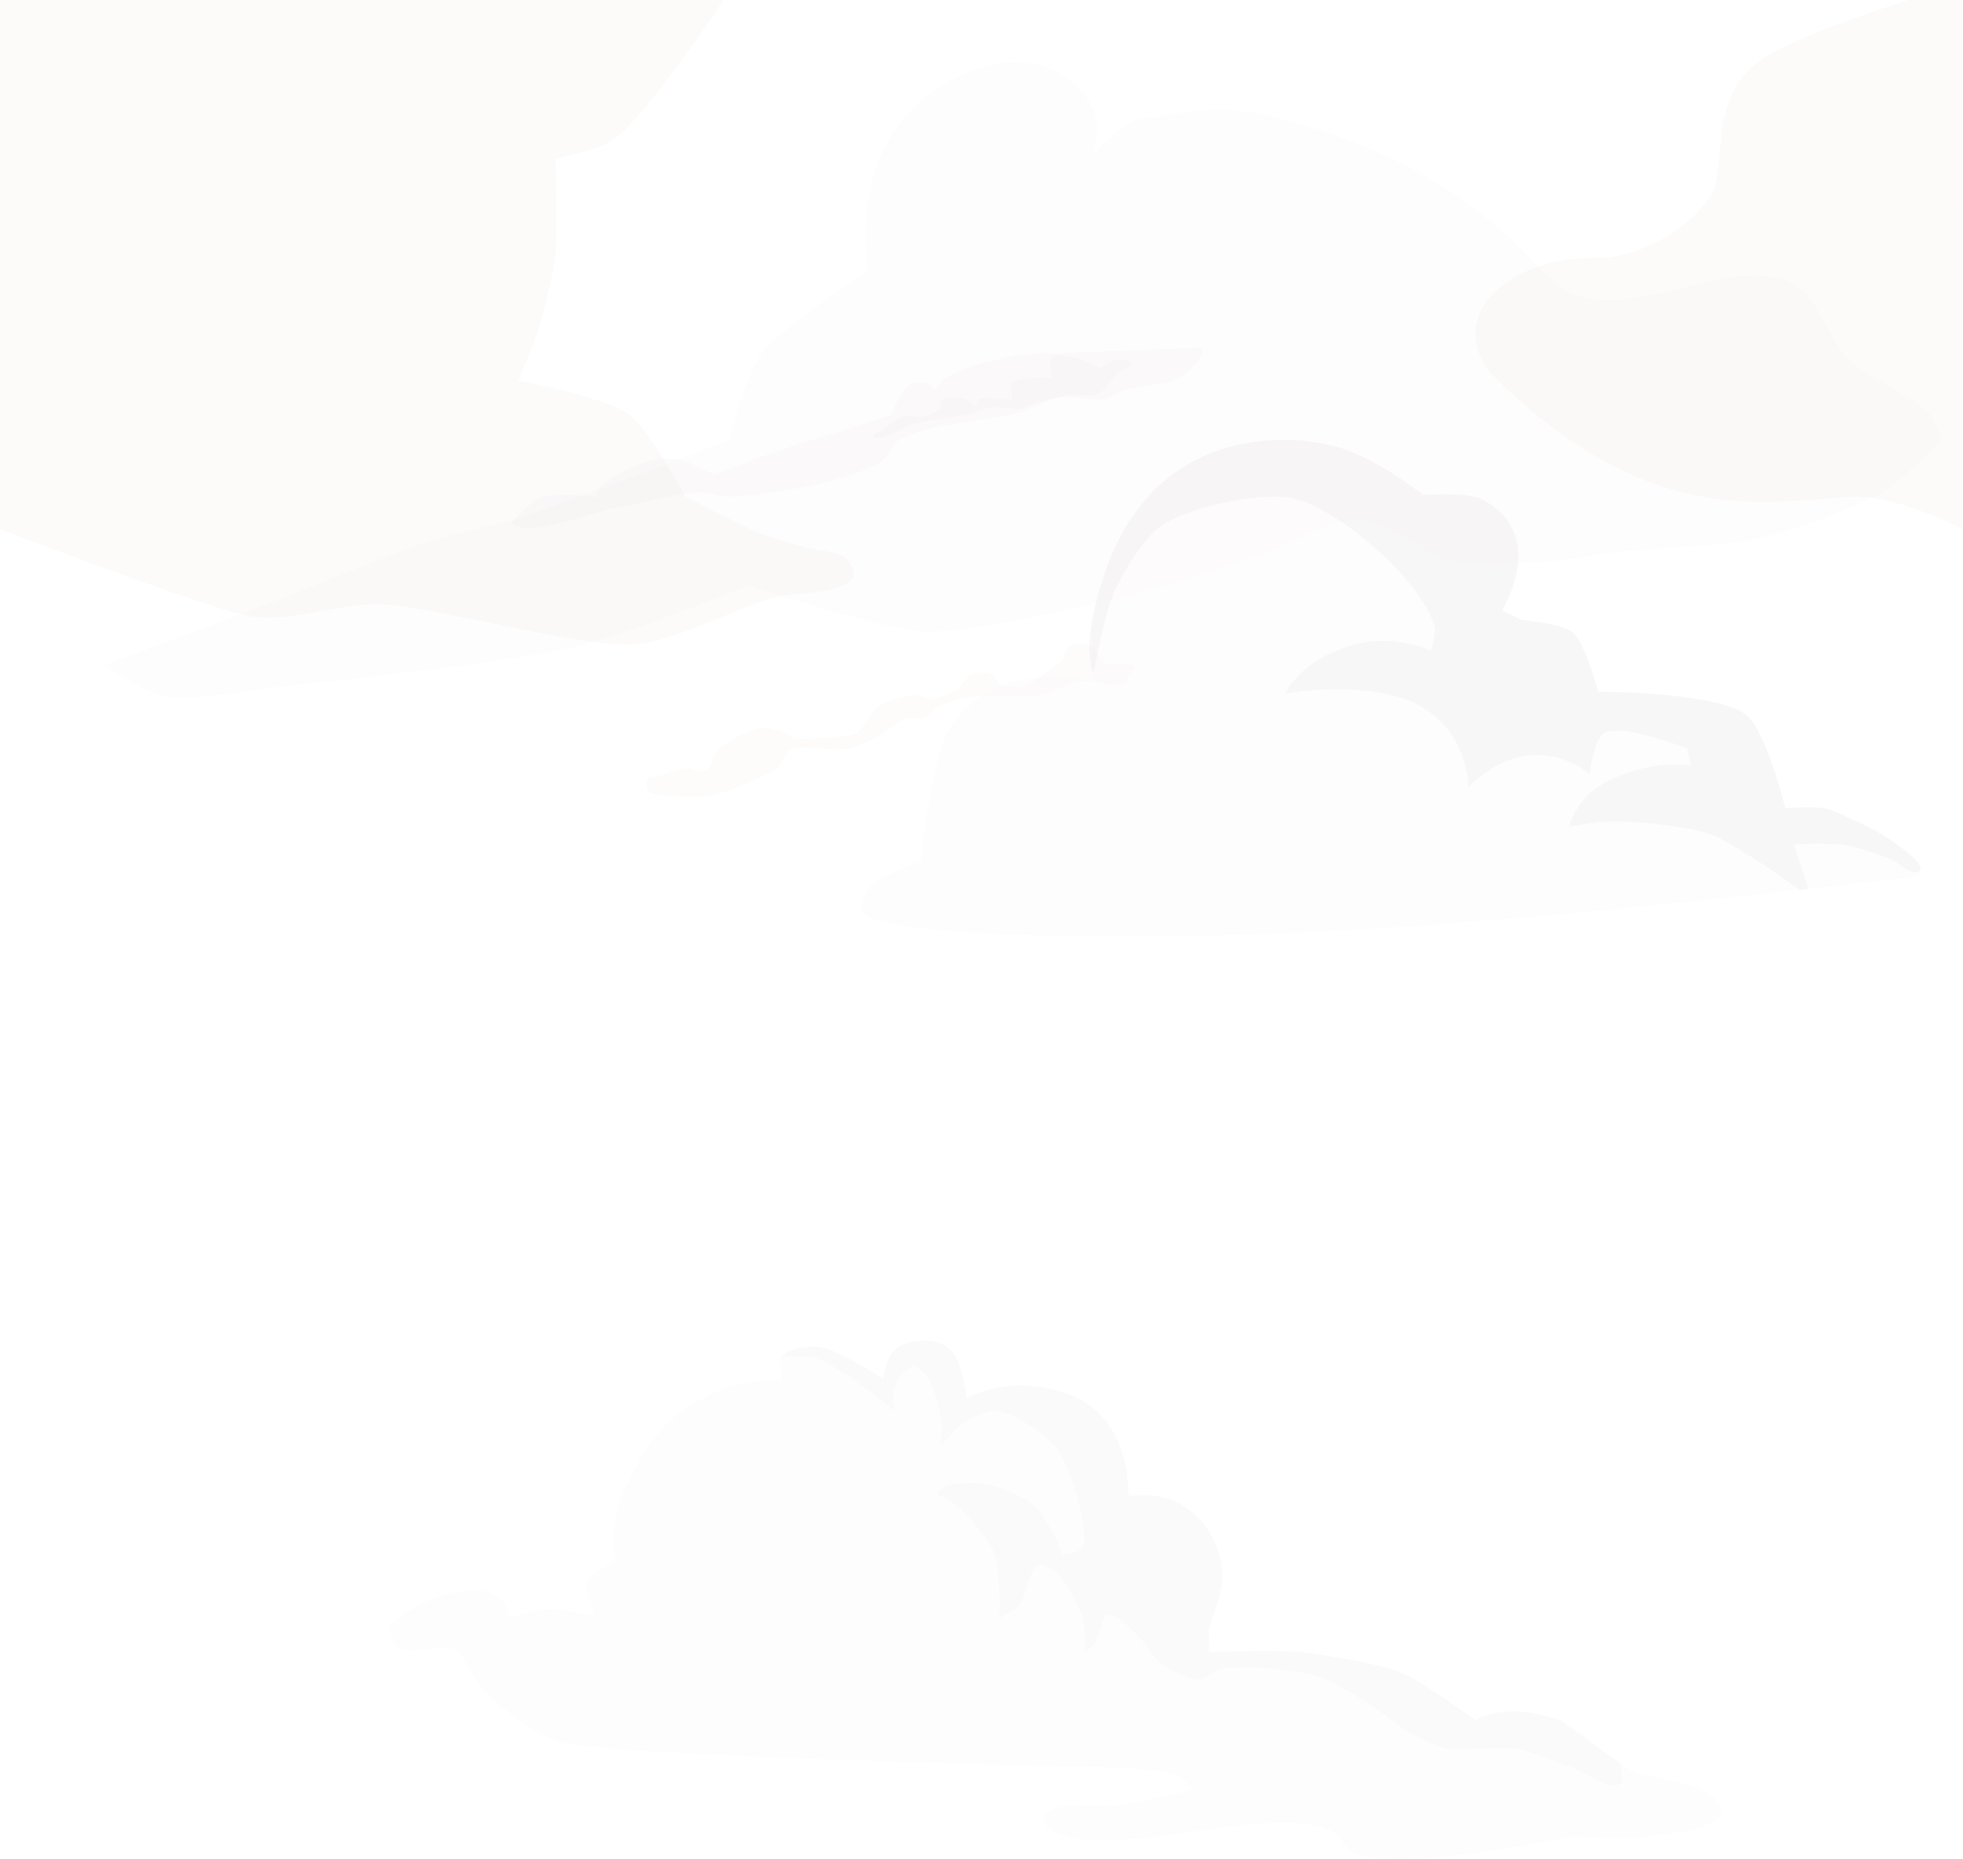
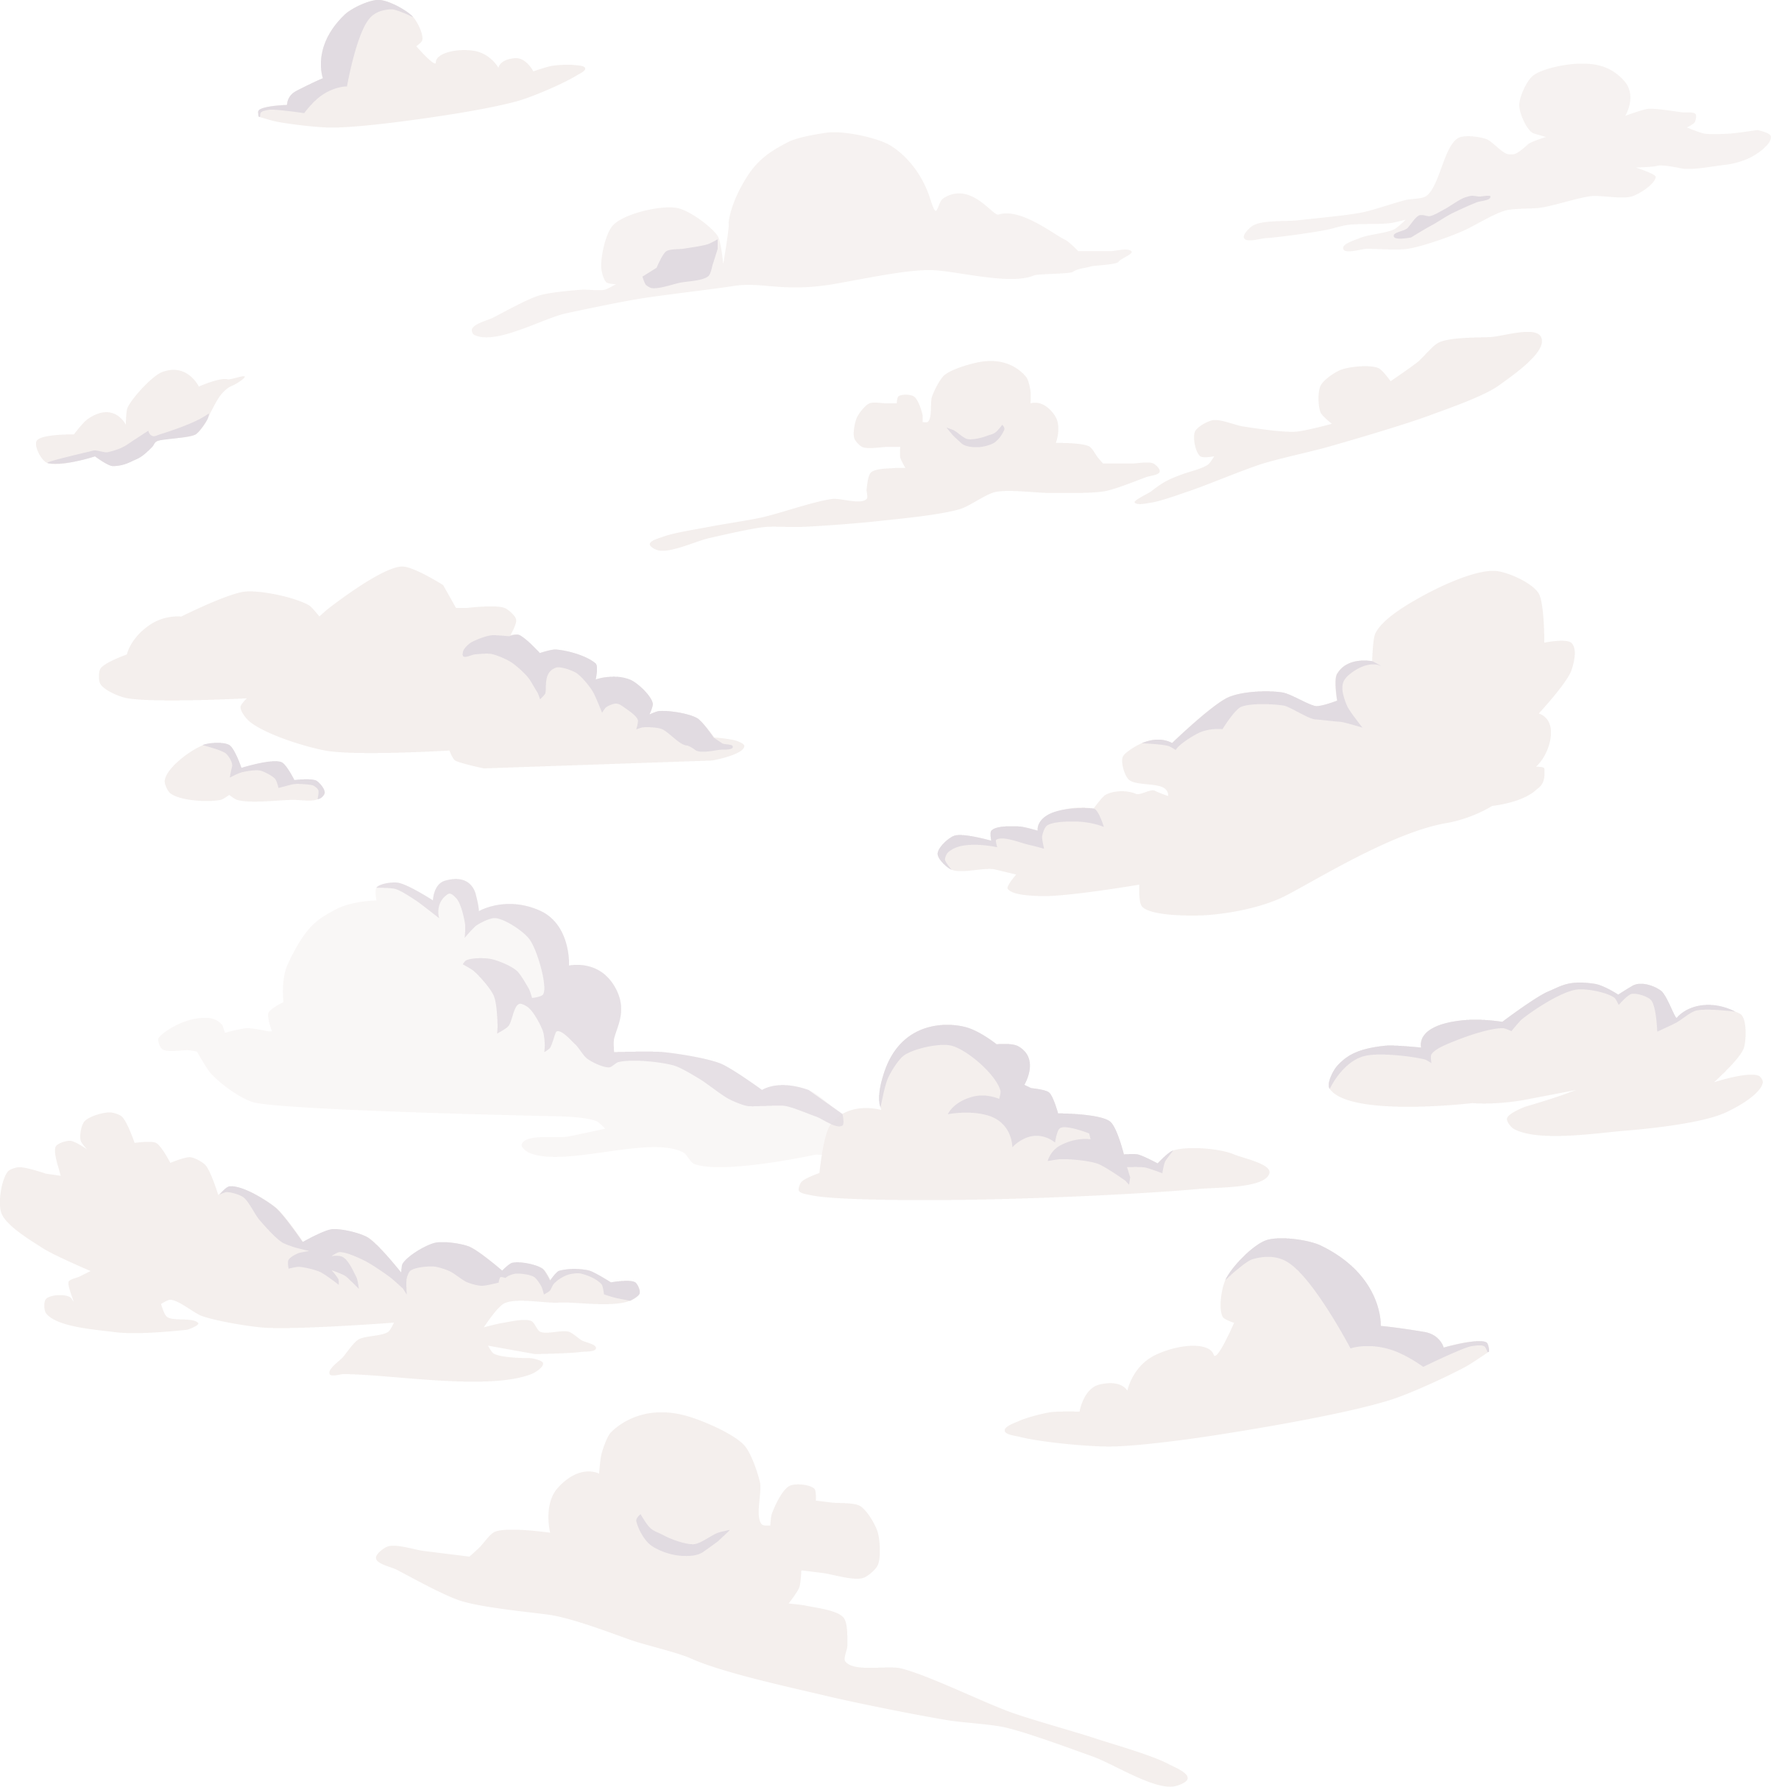
Add support for lower quality world background images, fix camera clamp

diff --git a/client/src/rendering/renderers/infinitris2/Infinitris2Renderer.ts b/client/src/rendering/renderers/infinitris2/Infinitris2Renderer.ts
@@ -186,7 +186,7 @@ export default class Infinitris2Renderer
     this._camera.update();
 
     // clamp the camera to fit within the grid
-    const cameraY = Math.min(
+    const clampedCameraY = Math.min(
       Math.max(
         this._camera.y,
         -(this._gridHeight - this._app.renderer.height + visibilityY)
@@ -197,7 +197,7 @@ export default class Infinitris2Renderer
       this._world.x = this._camera.wrappedX + visibilityX;
     }
     if (this._scrollY) {
-      this._world.y = cameraY + visibilityY;
+      this._world.y = clampedCameraY + visibilityY;
     }
 
     if (this._scrollX) {
@@ -208,11 +208,15 @@ export default class Infinitris2Renderer
         this._wrapObjects();
       }
 
-      this._worldBackground.update(this._scrollX, this._scrollY);
+      this._worldBackground.update(
+        this._scrollX,
+        this._scrollY,
+        clampedCameraY
+      );
     }
     if (this._scrollY) {
       this._grid.graphics.y =
-        ((cameraY + visibilityY) % this._cellSize) - this._cellSize;
+        ((clampedCameraY + visibilityY) % this._cellSize) - this._cellSize;
     }
 
     Object.values(this._cells).forEach((cell) => {
@@ -624,8 +628,12 @@ export default class Infinitris2Renderer
           font: 'bold italic 60px Arvo',
           fill: PIXI.utils.hex2string(block.player.color),
           align: 'center',
-          stroke: '#000000',
-          strokeThickness: 7,
+          //stroke: '#000000',
+          //strokeThickness: 7,
+          dropShadow: true,
+          dropShadowAngle: Math.PI / 2,
+          dropShadowDistance: 1,
+          dropShadowBlur: 2,
         });
         text.anchor.set(0.5, 0);
         return text;

diff --git a/client/src/rendering/renderers/infinitris2/WorldBackground.ts b/client/src/rendering/renderers/infinitris2/WorldBackground.ts
@@ -7,6 +7,8 @@ import {
   worldBackgroundConfigs,
 } from './worldBackgroundConfigs';
 
+const small = true;
+
 export class WorldBackground {
   private _layerSprites: PIXI.TilingSprite[] = [];
   private _app: PIXI.Application;
@@ -27,7 +29,13 @@ export class WorldBackground {
     }
   }
   private _getLayerImage(layer: WorldBackgroundLayerConfig): any {
-    return `${imagesDirectory}/worlds/${this._worldConfig.worldName}/${layer.filename}`;
+    const layerFilenameParts = layer.filename.split('.');
+    if (small) {
+      layerFilenameParts[layerFilenameParts.length - 2] += '_s';
+    }
+    return `${imagesDirectory}/worlds/${
+      this._worldConfig.worldName
+    }/${layerFilenameParts.join('.')}`;
   }
 
   destroy() {
@@ -46,7 +54,7 @@ export class WorldBackground {
     }
   }
 
-  update(scrollX: boolean, scrollY: boolean) {
+  update(scrollX: boolean, scrollY: boolean, clampedCameraY: number) {
     for (let i = 0; i < this._layerSprites.length; i++) {
       if (scrollX) {
         this._layerSprites[i].tilePosition.x =
@@ -54,7 +62,7 @@ export class WorldBackground {
       }
       this._layerSprites[i].y = Math.floor(
         Math.max(
-          (scrollY ? this._camera.y : 0) * this._worldConfig.layers[i].speedY +
+          (scrollY ? clampedCameraY : 0) * this._worldConfig.layers[i].speedY +
             this._app.renderer.height * this._worldConfig.layers[i].offsetY,
           //this._app.renderer.height -
           //this._app.renderer.height * this._layerSprites[i].tileScale.y

diff --git a/client/src/client/singleplayer/SinglePlayerClient.ts b/client/src/client/singleplayer/SinglePlayerClient.ts
@@ -101,7 +101,7 @@ export default class SinglePlayerClient
         : new Infinitris2Renderer();
     await this._renderer.create();
 
-    this._simulation = new Simulation(new Grid(10, 20));
+    this._simulation = new Simulation(new Grid(60, 40));
     this._simulation.addEventListener(this, this._renderer);
 
     this._simulation.init();
